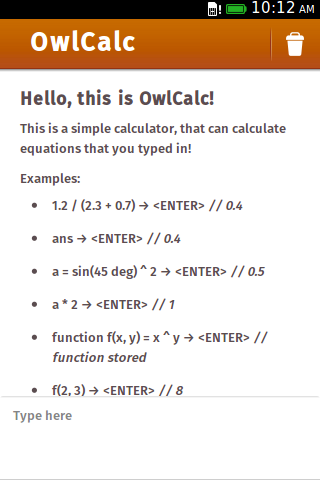
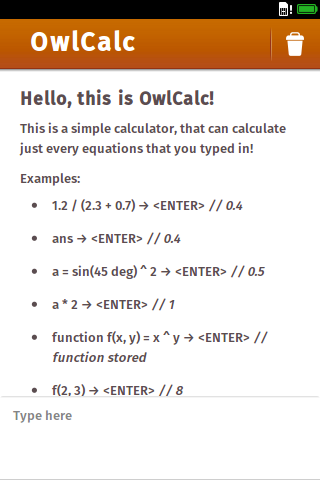
todo list added

Changed region(s): [[0.0625, 0.2812, 0.8125, 0.3438], [0.625, 0.0, 1.0, 0.0312]]

diff --git a/app/index.html b/app/index.html
@@ -6,7 +6,7 @@
 <head>
     <meta charset="utf-8">
     <meta http-equiv="X-UA-Compatible" content="IE=edge,chrome=1">
-    <title></title>
+    <title>OwlCalc</title>
     <meta name="description" content="">
     <meta name="viewport" content="width=device-width,initial-scale=1.0,maximum-scale=1.0,user-scalable=0"/>
     <!-- Place favicon.ico and apple-touch-icon.png in the root directory -->
@@ -36,7 +36,7 @@
     <section role="region">
         <header>
             <menu type="toolbar">
-              <a href="#"><span class="icon icon-delete" ng-tap="deletehistory()" hm-hold="whatIsThis('deleteHistory')">delete</span></a>
+              <a href="#"><span class="icon icon-delete" ng-click="deletehistory()" hm-hold="whatIsThis('deleteHistory')">delete</span></a>
             </menu>
             <h1>OwlCalc</h1>
         </header>
@@ -57,8 +57,8 @@
                 <li>function f(x, y) = x ^ y &rarr; &lt;ENTER&gt; <i>// function stored</i></li>
                 <li>f(2, 3) &rarr; &lt;ENTER&gt; <i>// 8</i></li>
                 <li>help &rarr; &lt;ENTER&gt; <i>// {{ 'THIS_HELP' | translate }}</i></li>
-                <li><img src="images/swipe-right.png" alt="swiperight" /> &rarr; &lt;ENTER&gt; <i>// {{ 'SWIPE_RIGHT' | translate }}</i></li>
-                <li><img src="images/swipe-left.png" alt="swipeleft"/> &rarr; &lt;ENTER&gt; <i>// {{ 'SWIPE_LEFT' | translate }}</i></li>
+                <li><img src="images/swipe-right.png" alt="swiperight" /> &rarr; <i>// {{ 'SWIPE_RIGHT' | translate }}</i></li>
+                <li><img src="images/swipe-left.png" alt="swipeleft"/> &rarr; <i>// {{ 'SWIPE_LEFT' | translate }}</i></li>
             </ul>
             </div>
             <div class="span12" id="history" ng-hide="initial">

diff --git a/app/scripts/app.js b/app/scripts/app.js
@@ -14,7 +14,7 @@ angular.module('owlcalcApp', ['pascalprecht.translate', 'angular-gestures'])
   .config(['$translateProvider', function ($translateProvider) {
     $translateProvider.translations('en-US', {
         'GREETING': 'Hello, this is OwlCalc!',
-        'DESCRIPTION': 'This is a simple calculator, that can calculate equations that you typed in!',
+        'DESCRIPTION': 'This is a simple calculator, that can calculate just every equations that you typed in!',
         'EXAMPLES': 'Examples',
         'TYPE_HERE': 'Type here',
         'DELETE_HISTORY': 'Delete history',

diff --git a/README.md b/README.md
@@ -4,6 +4,8 @@
 
 OwlCalc is a Firefox OS app: a calculator, that is simple like a notepad
 
+Check on [Firefox Marketplace](https://marketplace.firefox.com/app/owlcalc/)
+
 ## Usage
 
 To calculate an equation simply type with the phone's default keyboard into the input field.

diff --git a/TODO.md b/TODO.md
@@ -1,0 +1,3 @@
+# TODO
+
+* focus only on body content
